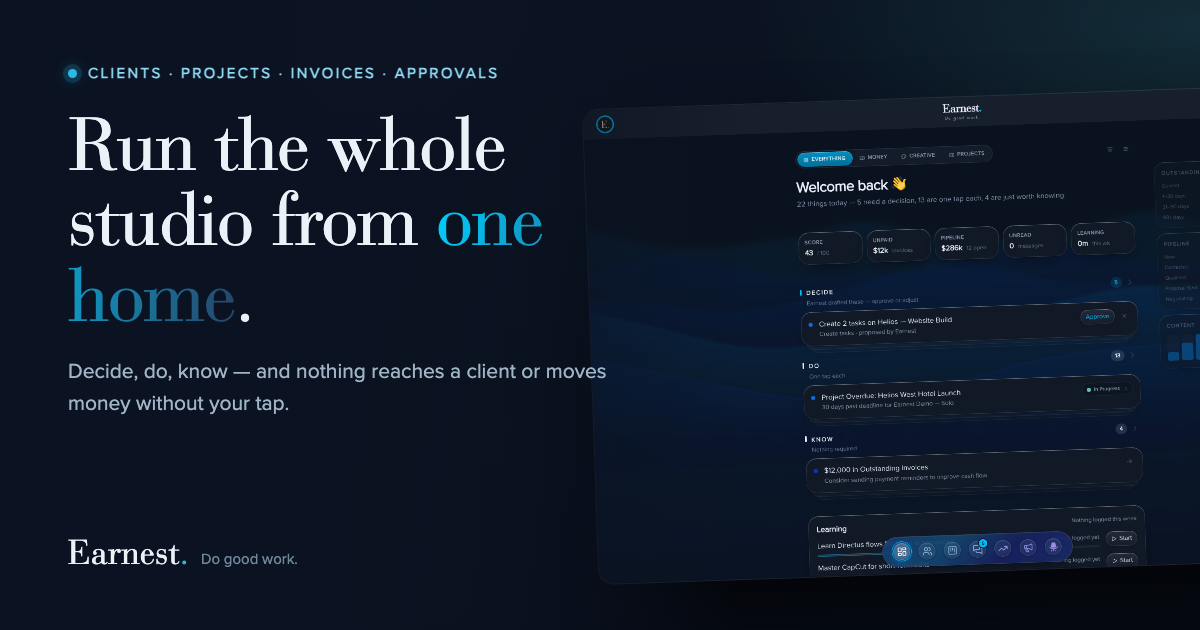
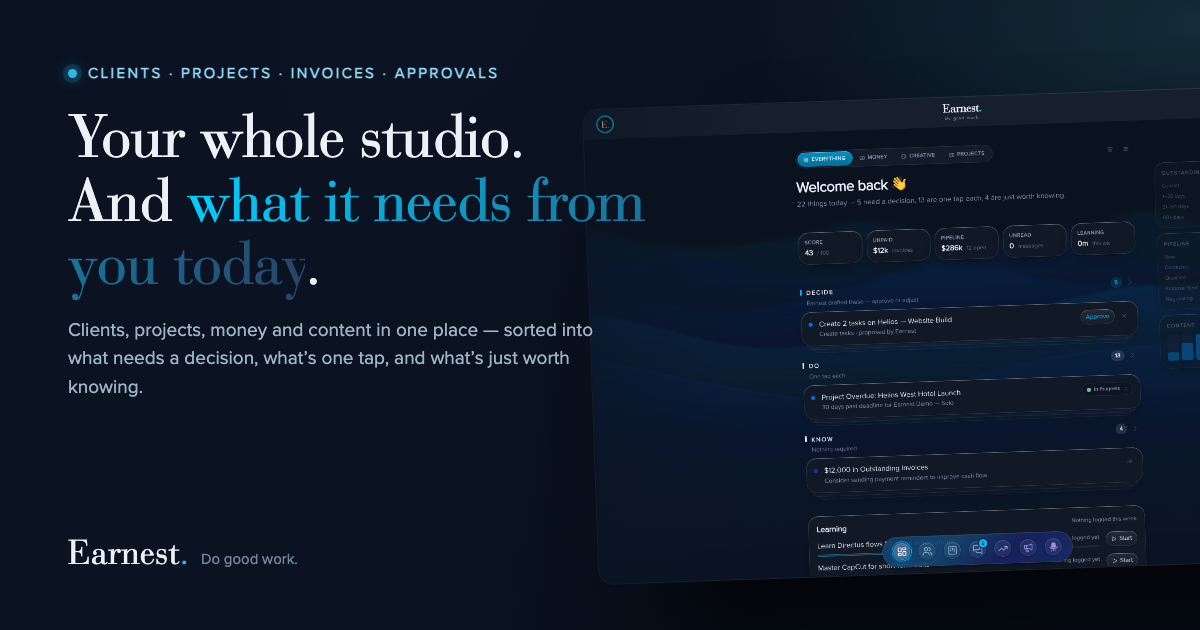
feat(landing): sell the outcome, and advertise Personal Brand honestly
THE HERO. "Run the whole studio from one home" was selling in-house
vocabulary. "Home" is what the app calls its first screen; to someone who
has never opened it, "one home" is a house. Replaced with the two things a
studio owner is actually buying, in that order:

    Your whole studio.
    And what it needs from you today.

Breadth first, then the part nothing else does. Same edit applied to the
nav ("The home" → "Your day"), the first section's kicker, the page title,
the OG card and llms.txt. Section 2's "One door" went with it for the same
reason — it is a good internal name and a bad headline — and now says what
it does: "Ask from anywhere. It already knows what you're looking at."

The headline is sized for its LONGEST line, not its shortest. At the
previous 88px cap the second sentence ran ~1900px and wrapped again,
orphaning "today." on a line of its own; `text-wrap: balance` cannot help
across an explicit <br>.

PERSONAL BRAND — advertised exactly as the app advertises it.

The app defines `personal_brand` in EARNEST_ADDONS with `stripePriceId:
null`, deliberately keeps it OUT of ALWAYS_INCLUDED_ADDONS so the gate is
real from day one, and renders it as a dimmed "Coming soon" row with no
price. The working editor is still uncommitted WIP. So the site says the
same thing, in three places and nowhere else: a dimmed carousel card with a
COMING SOON tag, a FAQ answer that opens by saying it is not live, and a
[…]

Changed region(s): [[0.0617, 0.181, 0.555, 0.6635]]

diff --git a/app/data/landing.ts b/app/data/landing.ts
@@ -19,6 +19,11 @@
  *   · Creative Approvals is "included on every plan today". It has an intended
  *     $19/mo price and no Stripe price id, so it is free for every org. Do not
  *     print a price for something nobody is charged.
+ *   · Personal Brand is COMING SOON and is not purchasable. It is defined in
+ *     `EARNEST_ADDONS` with `stripePriceId: null` and deliberately left out of
+ *     `ALWAYS_INCLUDED_ADDONS`, so the gate is real and nobody has it. The app
+ *     renders it as a dimmed row with NO PRICE — do the same here. The
+ *     intended $19/mo is not a price anyone can pay yet.
  *   · Capacity numbers mirror `EARNEST_PLANS` in the app's `server/utils/
  *     stripe.ts`. If they move there, they move here.
  */
@@ -43,9 +48,9 @@ export const faqs: Faq[] = [
 	},
 	{
 		q: 'What do I actually see when I open it?',
-		a: 'One home. A greeting with an honest read of the day, four numbers at a glance, and then three piles: <strong>Decide</strong> (things Earnest drafted and is waiting on you for), <strong>Do</strong> (one tap each) and <strong>Know</strong> (nothing required, but worth knowing). Four lenses re-rank the same home around money, creative work or projects.',
+		a: 'One screen. A greeting with an honest read of the day — “22 things today, 5 need a decision” — four numbers at a glance, and then three piles: <strong>Decide</strong> (things Earnest drafted and is waiting on you for), <strong>Do</strong> (one tap each) and <strong>Know</strong> (nothing required, but worth knowing). Four lenses re-rank the same screen around money, creative work or projects.',
 		aText:
-			'One home. A greeting with an honest read of the day, four numbers at a glance, and then three piles: Decide (things Earnest drafted and is waiting on you for), Do (one tap each) and Know (nothing required, but worth knowing). Four lenses re-rank the same home around money, creative work or projects.',
+			'One screen. A greeting with an honest read of the day — “22 things today, 5 need a decision” — four numbers at a glance, and then three piles: Decide (things Earnest drafted and is waiting on you for), Do (one tap each) and Know (nothing required, but worth knowing). Four lenses re-rank the same screen around money, creative work or projects.',
 	},
 	{
 		q: 'How is this different from ChatGPT or a generic AI assistant?',
@@ -76,6 +81,12 @@ export const faqs: Faq[] = [
 		a: 'You send it in one press. Your client opens a link — no login, no account — and marks each piece approved or asks for a change, with notes pinned to the artwork. Rounds stack up and nothing is erased, so six weeks later you can still see who said what. <strong>Included on every plan today.</strong>',
 		aText:
 			'You send it in one press. Your client opens a link — no login, no account — and marks each piece approved or asks for a change, with notes pinned to the artwork. Rounds stack up and nothing is erased, so six weeks later you can still see who said what. Included on every plan today.',
+	},
+	{
+		q: 'Can Earnest write in my own voice, not just my studio’s?',
+		a: 'That is <strong>Personal Brand</strong>, and it is coming soon rather than live. Earnest already works from your <em>studio’s</em> brand direction and audience. Personal Brand adds the layer above it: your own positioning and voice, written once, sitting on your business card and your booking page, and used when the Content Studio drafts posts in your name. It is defined and gated in the app today and you will see it listed as coming soon — nobody is charged for it, and nothing about it is switched on yet.',
+		aText:
+			'That is Personal Brand, and it is coming soon rather than live. Earnest already works from your studio’s brand direction and audience. Personal Brand adds the layer above it: your own positioning and voice, written once, sitting on your business card and your booking page, and used when the Content Studio drafts posts in your name. It is defined and gated in the app today and you will see it listed as coming soon — nobody is charged for it, and nothing about it is switched on yet.',
 	},
 	{
 		q: 'Can I change how it looks?',
@@ -231,7 +242,7 @@ export const lenses: Lens[] = [
 		shot: 'home-v2',
 		shotByLook: { glass: 'home-v2', paper: 'home-v2-paper', clean: 'home-v2-clean' },
 		line: null,
-		note: 'The home you arranged, in full.',
+		note: 'Everything you arranged, in full.',
 	},
 	{
 		key: 'money',
@@ -287,11 +298,24 @@ export const looks = [
 	},
 ];
 
+export interface MoreCard {
+	icon: string;
+	title: string;
+	desc: string;
+	/**
+	 * Renders a "Coming soon" tag and dims the card. ⚠ Reserved for things the
+	 * app itself advertises as coming soon — it is a promise with a date-shaped
+	 * hole in it, and one that turns out to be already-shipped-elsewhere or
+	 * never-shipped costs more trust than leaving the card out entirely.
+	 */
+	soon?: boolean;
+}
+
 /**
  * The breadth carousel — everything the long-form argument does not have room
- * to make a section about. All of it is on every plan.
+ * to make a section about. Everything without `soon` is on every plan today.
  */
-export const moreCards = [
+export const moreCards: MoreCard[] = [
 	{
 		icon: 'i-lucide-presentation',
 		title: 'The Boardroom',
@@ -336,6 +360,12 @@ export const moreCards = [
 		icon: 'i-lucide-scan-line',
 		title: 'CardDesk',
 		desc: 'Snap a business card and the contact lands in your CRM — enriched, deduped, and yours.',
+	},
+	{
+		icon: 'i-lucide-id-card',
+		title: 'Personal Brand',
+		soon: true,
+		desc: 'Your own positioning and voice — on your card, on your booking page, and in the posts the Studio drafts in your name. Defined and gated in the app today; not switched on, and not charged for.',
 	},
 	{
 		icon: 'i-lucide-bell',

diff --git a/app/components/SellSheetHome.vue b/app/components/SellSheetHome.vue
@@ -6,7 +6,7 @@
 				<LogoEarnest size="md" />
 			</nuxt-link>
 			<div class="e-nav-links">
-				<a href="#home" class="e-nav-link">The home</a>
+				<a href="#home" class="e-nav-link">Your day</a>
 				<a href="#focus" class="e-nav-link">Earnest</a>
 				<a href="#looks" class="e-nav-link">Looks</a>
 				<a href="#pricing" class="e-nav-link">Pricing</a>
@@ -37,12 +37,12 @@
 
 			<span class="g-eyebrow opacity-0"><span class="g-eyebrow-dot"></span> Clients · Projects · Invoices · Approvals · Content</span>
 			<h1 class="e-hero-wordmark l-hero-head opacity-0">
-				Run the whole studio<br />from <span class="g-accent-text">one home</span><span class="e-hero-period">.</span>
+				Your whole studio<span class="e-hero-period">.</span><br />And <span class="g-accent-text">what it needs from you today</span><span class="e-hero-period">.</span>
 			</h1>
 			<p class="e-hero-tagline opacity-0">Do good work<span class="e-dot">.</span></p>
 			<p class="e-hero-sub opacity-0">
-				Every client, project, invoice, proposal, approval and post in one place — sorted into what needs a
-				decision, what’s one tap, and what’s just worth knowing. One door to ask about any of it.
+				Every client, project, invoice, proposal, approval and post in one place — and Earnest reading across all
+				of it to tell you what needs a decision, what’s one tap, and what’s just worth knowing.
 				<strong>Nothing reaches a client or moves money without your tap.</strong>
 			</p>
 			<div class="e-hero-actions opacity-0">
@@ -70,11 +70,11 @@
 			</div>
 		</div>
 
-		<!-- ─── 1. The home ─── -->
+		<!-- ─── 1. The day, sorted ─── -->
 		<section id="home" class="e-section l-arg-section">
 			<div class="l-arg" data-anim="scale">
 				<div class="l-arg-copy">
-					<span class="g-kicker-pill"><span class="g-eyebrow-dot"></span> The home</span>
+					<span class="g-kicker-pill"><span class="g-eyebrow-dot"></span> Your day, sorted</span>
 					<h2 class="e-h2">Three piles, <span class="g-accent-text">not a dashboard</span><span class="e-dot">.</span></h2>
 					<p class="l-arg-sub">
 						A dashboard shows you everything and asks you to work out what it means. Your home sorts the day
@@ -119,12 +119,12 @@
 		<section id="focus" class="e-section l-arg-section">
 			<div class="l-arg l-arg--flip" data-anim="scale">
 				<div class="l-arg-copy">
-					<span class="g-kicker-pill"><span class="g-eyebrow-dot"></span> One door</span>
-					<h2 class="e-h2">One door<span class="e-dot">.</span> It already knows <span class="g-accent-text">where you are</span><span class="e-dot">.</span></h2>
+					<span class="g-kicker-pill"><span class="g-eyebrow-dot"></span> Ask Earnest</span>
+					<h2 class="e-h2">Ask from anywhere<span class="e-dot">.</span> It already knows <span class="g-accent-text">what you’re looking at</span><span class="e-dot">.</span></h2>
 					<p class="l-arg-sub">
-						The header is three controls: search, your avatar, and <strong>E.</strong> — the door. It opens
-						full screen, and what it offers you first is ranked for whatever you were just looking at. Ask it
-						from a project and it opens on that project.
+						One control in the header — <strong>E.</strong> — opens Earnest full screen from any page, and
+						what it offers you first is ranked for whatever you were just looking at. Ask from a project and
+						it opens on that project, with that project’s tasks beside the conversation.
 					</p>
 					<ul class="l-arg-points">
 						<li>
@@ -354,8 +354,9 @@
 				<span class="g-kicker-pill" data-anim="scale"><span class="g-eyebrow-dot"></span> All included</span>
 				<h2 class="e-h2" data-anim="rise">And everything else <span class="g-accent-text">it does</span><span class="e-dot">.</span></h2>
 				<p class="e-section-sub" data-anim="rise">
-					Six sections cannot hold it all. Every plan includes the whole toolkit — no add-ons for the features,
-					no meter on the actions.
+					Six sections cannot hold it all. Everything below is on every plan — no add-ons for the features, no
+					meter on the actions — except the one card marked <em>coming soon</em>, which is not switched on yet
+					and is not charged for.
 				</p>
 			</div>
 
@@ -364,9 +365,18 @@
 					<UIcon name="i-lucide-chevron-left" />
 				</button>
 				<div ref="carouselRef" class="l-carousel" role="list">
-					<div v-for="m in moreCards" :key="m.title" class="l-more-card g-glass g-lift" role="listitem">
+					<div
+						v-for="m in moreCards"
+						:key="m.title"
+						class="l-more-card g-glass g-lift"
+						:class="{ 'l-more-card--soon': m.soon }"
+						role="listitem"
+					>
 						<span class="l-more-ic"><UIcon :name="m.icon" /></span>
-						<h3 class="l-more-title">{{ m.title }}</h3>
+						<h3 class="l-more-title">
+							{{ m.title }}
+							<span v-if="m.soon" class="l-soon">Coming soon</span>
+						</h3>
 						<p class="l-more-desc">{{ m.desc }}</p>
 					</div>
 				</div>
@@ -428,6 +438,12 @@
 					<strong>Extra storage</strong> $10/mo per 100 GB ·
 					<strong>White-label</strong> $19/mo on Agency ·
 					more AI tokens available if you run out
+					<br />
+					<span class="l-addons-soon">
+						<UIcon name="i-lucide-clock" /> Coming soon, not yet purchasable: <strong>Personal Brand</strong>
+						(your own positioning and voice, on your card and in your posts) and
+						<strong>publishing straight to the social networks</strong>.
+					</span>
 				</p>
 			</div>
 		</section>

diff --git a/app/assets/css/sellsheet-home.css b/app/assets/css/sellsheet-home.css
@@ -140,11 +140,16 @@
    The size has to come down with the change: 14vw is tuned for one short word,
    and a five-word sentence at that scale wraps into a wall. */
 .e-hero-wordmark.l-hero-head {
-	font-size: clamp(40px, 6.6vw, 88px);
-	line-height: 1.02;
+	/* Sized for the LONGEST line, not the shortest. The headline is two
+	   sentences with an explicit <br> between them, and the second runs to
+	   about 32 characters — at the old 88px cap that line was ~1900px wide and
+	   wrapped again, orphaning "today." onto a third line of its own.
+	   `text-wrap: balance` cannot help across an explicit break, so the size
+	   and the measure have to do it. */
+	font-size: clamp(32px, 4.7vw, 64px);
+	line-height: 1.08;
 	letter-spacing: -0.02em;
-	max-width: 16em;
-	text-wrap: balance;
+	max-width: 15.5em;
 }
 
 /* Same reasoning at the close — but the brand's own line ("Do good work.")
@@ -491,11 +496,14 @@
 	max-width: 900px;
 	margin: clamp(28px, 4vw, 44px) auto 0;
 }
+/* ⚠ `display: block`, NOT flex — and this is a bug fix carried over, not a
+   style preference. This rule was `display: flex` on a <p> of prose containing
+   a <strong>, which makes EVERY inline child its own flex item: the sentence
+   rendered as three columns reading "…Creative Approvals and | every | plan.
+   What changes is scale." It shipped that way on the live page. Flex is for
+   laying out boxes; a sentence is one box. The icon goes inline instead. */
 .l-compare-lead {
-	display: flex;
-	align-items: flex-start;
-	gap: 9px;
-	justify-content: center;
+	display: block;
 	max-width: 640px;
 	margin: 0 auto 20px;
 	text-align: center;
@@ -508,9 +516,10 @@
 	font-weight: 700;
 }
 .l-compare-lead-ic {
+	display: inline-block;
 	color: var(--g-accent);
-	flex: none;
-	margin-top: 2px;
+	margin-right: 7px;
+	vertical-align: -3px;
 }
 .l-compare-lead-ic svg,
 .l-compare-lead-ic [class*='iconify'] {
@@ -966,4 +975,51 @@
 	.g-page.e-page[data-look] {
 		transition: none;
 	}
+}
+
+/* ─── "Coming soon" ────────────────────────────────────────────────────────
+   ⚠ This tag is a promise, so it is deliberately quiet and deliberately
+   consistent: the same words, the same weight, wherever it appears. It marks
+   only things the APP already advertises as coming soon (Personal Brand,
+   social publishing) — the site must never be the first place a promise is
+   made, and it must never carry a price for something nobody can buy. */
+.l-soon {
+	display: inline-block;
+	margin-left: 8px;
+	padding: 3px 8px;
+	border-radius: 999px;
+	background: var(--g-accent-soft);
+	border: 1px solid var(--g-accent-line);
+	color: var(--g-accent-ink);
+	font-size: 10.5px;
+	font-weight: 700;
+	letter-spacing: 0.07em;
+	text-transform: uppercase;
+	vertical-align: 2px;
+	white-space: nowrap;
+}
+/* Held back from the cards around it — it is real, and it is not here yet. */
+.l-more-card--soon {
+	opacity: 0.82;
+}
+.l-more-card--soon .l-more-ic {
+	color: var(--g-ink-3);
+	background: transparent;
+	border-style: dashed;
+}
+
+.l-addons-soon {
+	/* Block, for the reason spelled out on `.l-compare-lead` above: this line
+	   also carries <strong>s inside prose. */
+	display: block;
+	margin-top: 12px;
+	color: var(--g-ink-3);
+}
+.l-addons-soon svg,
+.l-addons-soon [class*='iconify'] {
+	display: inline-block;
+	width: 14px;
+	height: 14px;
+	margin-right: 6px;
+	vertical-align: -2px;
 }

diff --git a/app/pages/index.vue b/app/pages/index.vue
@@ -12,7 +12,7 @@ import { faqs } from '~/data/landing';
 import { features } from '~/data/features';
 
 const description =
-  'Earnest is one home for a creative studio — clients, projects, invoices, proposals, client approvals and content in one place, with an AI that reads across all of it and drafts the day with you. Nothing reaches a client or moves money without your tap.';
+  "Earnest brings every client, project, invoice, proposal, client approval and post into one place, then reads across all of it and tells you what needs a decision today, what's one tap, and what's just worth knowing. Nothing reaches a client or moves money without your tap.";
 
 // Built from `features.ts` rather than hand-listed, for the same reason the FAQ
 // is: a hand-kept list is a list that will describe surfaces the app no longer
@@ -25,7 +25,7 @@ const featureList = features
 const ogImage = 'https://earnest.guru/og/home.png';
 
 useHead({
-  title: 'Earnest — Run the whole studio from one home.',
+  title: 'Earnest — Your whole studio, and what it needs from you today.',
   meta: [{ name: 'description', content: description }],
   link: [{ rel: 'canonical', href: 'https://earnest.guru' }],
   script: [
@@ -69,8 +69,8 @@ useHead({
 });
 
 useSeoMeta({
-  title: 'Earnest — Run the whole studio from one home.',
-  ogTitle: 'Earnest — Run the whole studio from one home.',
+  title: 'Earnest — Your whole studio, and what it needs from you today.',
+  ogTitle: 'Earnest — Your whole studio, and what it needs from you today.',
   description,
   ogDescription: description,
   ogType: 'website',
@@ -79,10 +79,10 @@ useSeoMeta({
   ogImage,
   ogImageWidth: 1200,
   ogImageHeight: 630,
-  ogImageAlt: 'Earnest — the home, with the day sorted into Decide, Do and Know',
+  ogImageAlt: 'Earnest — a studio’s day sorted into Decide, Do and Know',
   robots: 'index, follow',
   twitterCard: 'summary_large_image',
-  twitterTitle: 'Earnest — Run the whole studio from one home.',
+  twitterTitle: 'Earnest — Your whole studio, and what it needs from you today.',
   twitterDescription: description,
   twitterImage: ogImage,
 });

diff --git a/app/data/features.ts b/app/data/features.ts
@@ -217,7 +217,7 @@ export const features: Feature[] = [
     slug: 'home-lenses',
     icon: 'i-lucide-layers',
     pillar: 'home',
-    desc: 'One home, four ways of reading it. Everything is the arrangement you made; Money, Creative and Projects re-rank the same widgets around one concern and re-tint the animated wave field behind them. When a lens has something true to say, Earnest writes one line under the greeting from data the page has already loaded — “Money lens on. $12k is out, $12k of it past 90 days.” When it has nothing, it stays quiet, because a lens line that always talks is just a label.',
+    desc: 'One screen, four ways of reading it. Everything is the arrangement you made; Money, Creative and Projects re-rank the same widgets around one concern and re-tint the animated wave field behind them. When a lens has something true to say, Earnest writes one line under the greeting from data the page has already loaded — “Money lens on. $12k is out, $12k of it past 90 days.” When it has nothing, it stays quiet, because a lens line that always talks is just a label.',
     keywords: ['lenses', 'home modes', 'ambient background', 'focus modes', 'dashboard views'],
     benefits: [
       'Everything · Money · Creative · Projects over one arrangement',
